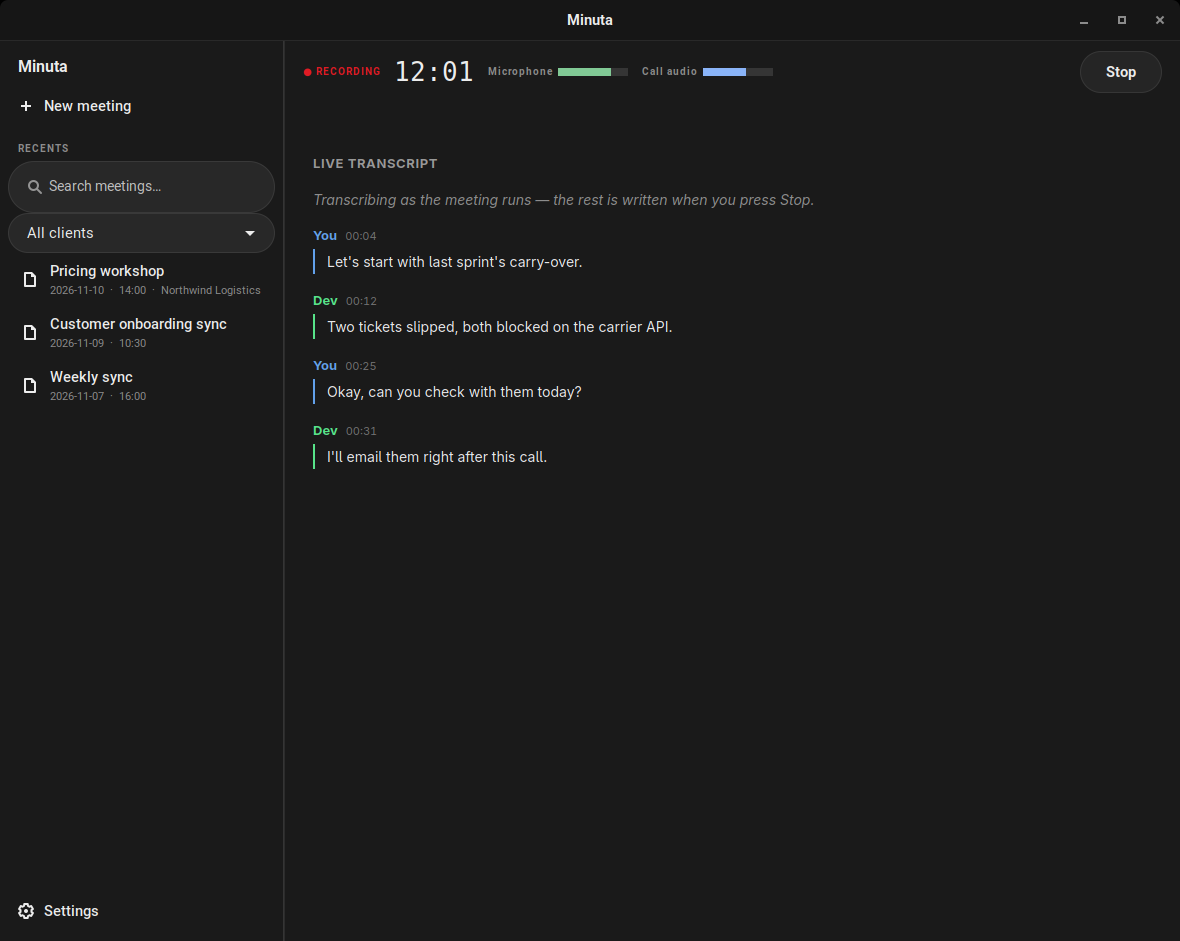
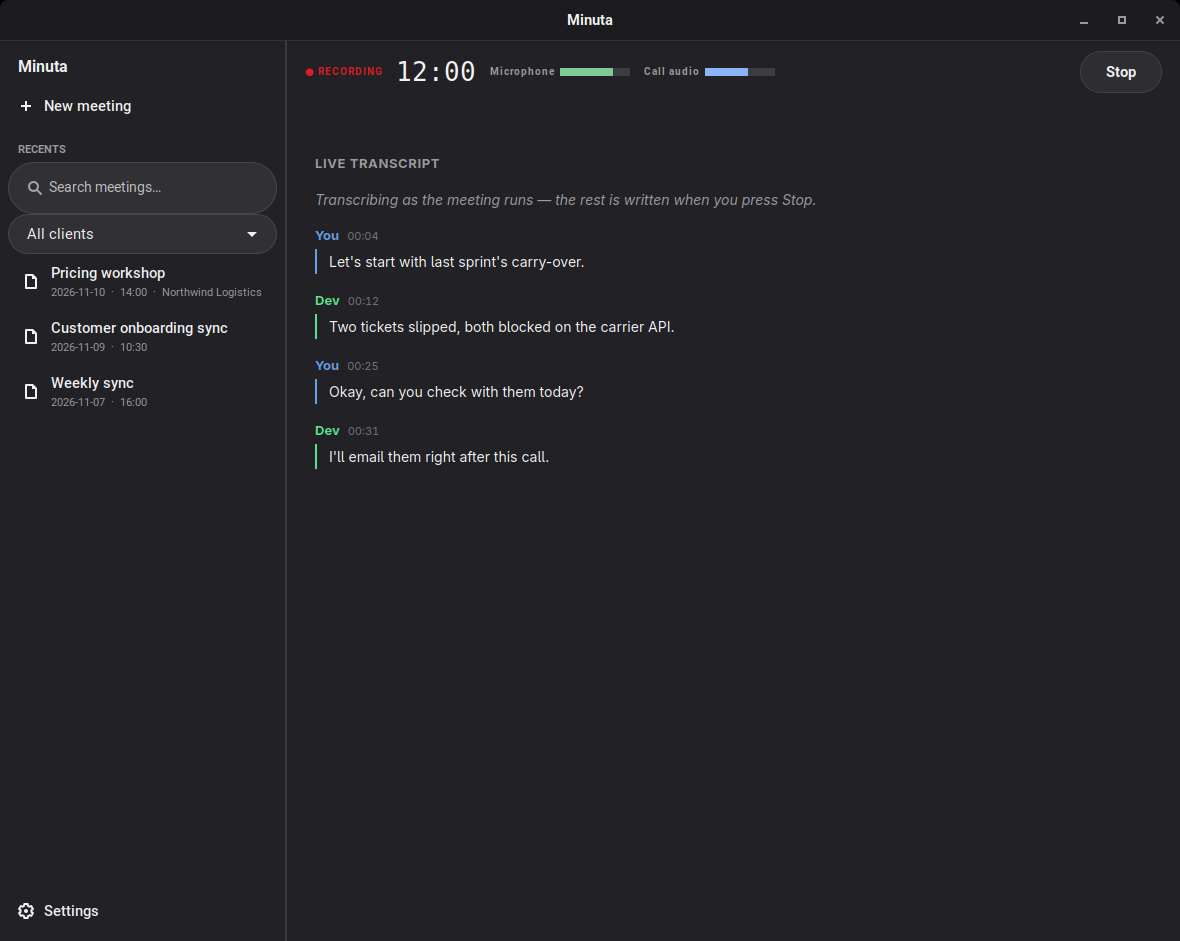
GUI: same visual tokens as Gavetta/Clima/Cadência, with a light theme that follows the system
Surface #222226, 12px cards and rows, accent-bordered selection, pill dialog buttons.
Dark or light comes from org.gnome.desktop.interface color-scheme (MINUTA_THEME overrides),
including the notes view. README screenshots regenerated.

diff --git a/gui/minuta_gui.py b/gui/minuta_gui.py
@@ -273,24 +273,70 @@ except (OSError, subprocess.SubprocessError):
     pass
 
 # ---------------------------------------------------------------- theme
-# Same visual language as Gavetta: neutral dark surface, GNOME blue accent,
-# rounded cards, pill-shaped inputs and chips, hairline borders.
-THEME = {
-    "bg":            "#1a1a1a",
-    "bg_bar":        "#161616",
-    "surface":       "rgba(255,255,255,0.05)",
-    "surface_hover": "rgba(255,255,255,0.09)",
-    "field":         "rgba(255,255,255,0.06)",
-    "hairline":      "rgba(255,255,255,0.08)",
+# Same visual language as Gavetta, Clima and Cadência: neutral surface, GNOME blue
+# accent, rounded cards (12px), pill inputs and chips, hairline borders. Dark or light
+# follows the system (org.gnome.desktop.interface color-scheme); MINUTA_THEME overrides.
+THEME_DARK = {
+    "bg":            "#222226",
+    "bg_bar":        "#1c1c20",
+    "surface":       "rgba(255,255,255,0.055)",
+    "surface_hover": "rgba(255,255,255,0.10)",
+    "field":         "rgba(255,255,255,0.07)",
+    "hairline":      "rgba(255,255,255,0.10)",
     "accent":        "#3584e4",
     "accent_soft":   "#62a0ea",
-    "text_primary":  "#ececec",
-    "text_secondary":"rgba(255,255,255,0.50)",
+    "text_primary":  "#f2f2f2",
+    "text_secondary":"rgba(255,255,255,0.55)",
     "danger":        "#e01b24",
     "warn":          "#f5c211",
+    "ok":            "#57e389",
+    "cloud":         "#ffa348",
+    "ink":           "255,255,255",
+    "strong":        "#ffffff",
+}
+THEME_LIGHT = {
+    "bg":            "#fafafb",
+    "bg_bar":        "#f0f0f3",
+    "surface":       "rgba(0,0,0,0.045)",
+    "surface_hover": "rgba(0,0,0,0.08)",
+    "field":         "rgba(0,0,0,0.05)",
+    "hairline":      "rgba(0,0,0,0.12)",
+    "accent":        "#3584e4",
+    "accent_soft":   "#1c71d8",
+    "text_primary":  "#241f31",
+    "text_secondary":"rgba(0,0,0,0.58)",
+    "danger":        "#c01c28",
+    "warn":          "#b8860b",
+    "ok":            "#1a7f4b",
+    "cloud":         "#b85c00",
+    "ink":           "0,0,0",
+    "strong":        "#000000",
 }
 
-CSS = ("""
+
+def system_is_dark() -> bool:
+    forced = os.environ.get("MINUTA_THEME", "").lower()
+    if forced in ("dark", "light"):
+        return forced == "dark"
+    try:
+        out = subprocess.run(["gsettings", "get", "org.gnome.desktop.interface", "color-scheme"],
+                             capture_output=True, text=True, timeout=3).stdout
+        return "light" not in out
+    except (OSError, subprocess.SubprocessError):
+        return True
+
+
+IS_DARK = system_is_dark()
+THEME = THEME_DARK if IS_DARK else THEME_LIGHT
+
+
+def themed(css: str) -> str:
+    """Fill the %(token)s placeholders; overlays written as white become black on light."""
+    css = css.replace("rgba(255,255,255,", "rgba(%(ink)s,").replace("rgba(255, 255, 255, ", "rgba(%(ink)s, ")
+    return re.sub(r"%\((\w+)\)s", lambda m: THEME[m.group(1)], css)
+
+
+_CSS_SRC = """
 window, .root { background-color: %(bg)s; color: %(text_primary)s; }
 headerbar { background: %(bg_bar)s; border-bottom: 1px solid %(hairline)s; box-shadow: none; color: %(text_primary)s; min-height: 38px; }
 headerbar button { border-radius: 999px; background: transparent; border: none; box-shadow: none; color: %(text_secondary)s; }
@@ -299,10 +345,10 @@ headerbar button:hover { background: %(surface_hover)s; color: %(text_primary)s;
 /* sidebar: flat, like Vibe */
 .sidebar { background: %(bg)s; padding: 14px 8px 4px 8px; }
 .sidebar-title { font-size: 16px; font-weight: 700; padding: 2px 10px 10px 10px; }
-.section-label { font-size: 10px; font-weight: 600; letter-spacing: 1.3px; color: %(text_secondary)s; padding: 16px 10px 6px 10px; }
+.section-label { font-size: 11px; font-weight: 700; letter-spacing: 0.6px; color: %(text_secondary)s; padding: 16px 10px 6px 10px; }
 button.nav {
   background: transparent; border: none; box-shadow: none; color: %(text_primary)s;
-  border-radius: 8px; padding: 8px 10px; font-weight: 500;
+  border-radius: 12px; padding: 8px 10px; font-weight: 500;
 }
 button.nav:hover { background: %(surface_hover)s; }
 separator { background: %(hairline)s; min-width: 1px; min-height: 1px; margin: 0; }
@@ -312,7 +358,7 @@ separator { background: %(hairline)s; min-width: 1px; min-height: 1px; margin: 0
 .status-rec  { color: %(danger)s; }
 .status-busy { color: %(accent_soft)s; }
 .dim-label { color: %(text_secondary)s; font-size: 12px; }
-.dim-icon { color: rgba(255,255,255,0.55); }
+.dim-icon { color: %(text_secondary)s; }
 .drop-title { font-size: 16px; font-weight: 600; color: %(text_primary)s; }
 
 entry, searchentry {
@@ -321,6 +367,8 @@ entry, searchentry {
   font-size: 14px; box-shadow: none;
 }
 entry:focus, searchentry:focus { border-color: %(accent_soft)s; background: rgba(255,255,255,0.09); }
+entry image, searchentry image { color: %(text_secondary)s; }
+entry placeholder, searchentry placeholder { color: %(text_secondary)s; }
 searchentry { margin: 0 6px 8px 6px; padding: 6px 12px; }
 
 combobox button.combo {
@@ -346,9 +394,10 @@ button.loud:disabled, button.quiet:disabled {
 
 /* recents: flat rows */
 list, list row { background: transparent; }
-list row { margin: 1px 4px; padding: 8px 10px; border-radius: 8px; border: none; }
-list row:hover { background: %(surface)s; }
-list row:selected { background: %(surface_hover)s; }
+list row { margin: 1px 4px; padding: 8px 10px; border-radius: 12px; border: 1px solid transparent; }
+list row, list row image { color: %(text_primary)s; }
+list row:hover { background: %(surface_hover)s; }
+list row:selected { background: alpha(%(accent)s, 0.22); border-color: alpha(%(accent_soft)s, 0.60); }
 .row-title { color: %(text_primary)s; font-weight: 500; }
 .row-meta  { color: %(text_secondary)s; font-size: 11px; }
 .empty { color: %(text_secondary)s; font-size: 12px; }
@@ -362,58 +411,69 @@ list row:selected { background: %(surface_hover)s; }
 .segment button:hover { color: %(text_primary)s; }
 .segment button.active { background: rgba(255,255,255,0.10); color: %(text_primary)s; }
 .dropzone {
-  border: 1.5px dashed rgba(255,255,255,0.16); border-radius: 18px; padding: 34px 28px;
+  border: 1.5px dashed %(hairline)s; border-radius: 18px; padding: 34px 28px;
 }
 eventbox:hover .dropzone { border-color: %(accent_soft)s; }
 
 .tag-local, .tag-cloud { font-size: 11px; font-weight: 700; padding: 3px 12px; border-radius: 999px; }
-.tag-local { color: #57e389; background: alpha(#57e389, 0.14); }
-.tag-cloud { color: #ffa348; background: alpha(#ffa348, 0.16); }
+.tag-local { color: %(ok)s; background: alpha(%(ok)s, 0.14); }
+.tag-cloud { color: %(cloud)s; background: alpha(%(cloud)s, 0.16); }
 
 /* action bar: chips */
 button.chip {
   padding: 3px 12px; border-radius: 999px; font-size: 12px; font-weight: 700;
-  background: %(surface)s; color: rgba(255,255,255,0.75);
+  background: %(surface)s; color: %(text_secondary)s;
   border: none; box-shadow: none;
 }
-button.chip:hover { background: rgba(255,255,255,0.15); color: #ffffff; }
+button.chip:hover { background: rgba(255,255,255,0.15); color: %(strong)s; }
 button.chip.danger:hover { background: alpha(%(danger)s, 0.60); color: #ffffff; }
-button.chip:disabled { color: rgba(255,255,255,0.28); }
+button.chip:disabled { color: alpha(%(text_secondary)s, 0.5); }
 
 dialog, messagedialog { background: %(bg)s; color: %(text_primary)s; }
-""" % THEME).encode()
+dialog .dialog-action-area button, messagedialog .dialog-action-area button {
+  background: %(surface)s; color: %(text_primary)s; border: 1px solid %(hairline)s;
+  border-radius: 999px; box-shadow: none; padding: 6px 20px; font-weight: 600;
+}
+dialog .dialog-action-area button:hover, messagedialog .dialog-action-area button:hover { background: %(surface_hover)s; }
+dialog .dialog-action-area button.suggested-action, messagedialog .dialog-action-area button.suggested-action {
+  background: %(accent)s; color: #ffffff; border: none;
+}
+dialog .dialog-action-area button.suggested-action:hover, messagedialog .dialog-action-area button.suggested-action:hover { background: %(accent_soft)s; }
+"""
+CSS = themed(_CSS_SRC).encode()
 
-NOTE_CSS = """
-:root { color-scheme: dark; }
-body { background:#1a1a1a; color:#e6e6e8; font-family: system-ui, -apple-system, "Segoe UI", sans-serif;
+_NOTE_SRC = """
+:root { color-scheme: %(scheme)s; }
+body { background:%(bg)s; color:%(text_primary)s; font-family: system-ui, -apple-system, "Segoe UI", sans-serif;
        font-size: 14px; line-height: 1.65; padding: 24px 28px; margin:0; }
-h1 { font-size: 21px; color:#fff; margin:0 0 4px; }
+h1 { font-size: 21px; color:%(strong)s; margin:0 0 4px; }
 h2 { font-size: 13px; letter-spacing: .6px; text-transform: uppercase; color: rgba(255,255,255,.55);
      margin: 26px 0 10px; font-weight: 700; }
-h3 { font-size: 13.5px; color:#e6e6e8; margin: 16px 0 4px; }
+h3 { font-size: 13.5px; color:%(text_primary)s; margin: 16px 0 4px; }
 table { border-collapse: separate; border-spacing: 0; width:100%; margin:10px 0; font-size:13px;
-        border:1px solid rgba(255,255,255,.08); border-radius:12px; overflow:hidden; }
+        border:1px solid %(hairline)s; border-radius:12px; overflow:hidden; }
 th { text-align:left; background:rgba(255,255,255,.07); color:rgba(255,255,255,.7); padding:8px 12px; }
 td { padding:8px 12px; border-top:1px solid rgba(255,255,255,.06); vertical-align: top; }
 code { background:rgba(255,255,255,.08); padding:1px 6px; border-radius:6px; font-size:12.5px; }
-blockquote { border-left:3px solid #62a0ea; margin:12px 0; padding:8px 14px; color:rgba(255,255,255,.65);
+blockquote { border-left:3px solid %(accent_soft)s; margin:12px 0; padding:8px 14px; color:rgba(255,255,255,.65);
              background:rgba(255,255,255,.04); border-radius:0 10px 10px 0; }
-strong { color:#fff; }
+strong { color:%(strong)s; }
 ul,ol { padding-left: 22px; }
 li { margin: 4px 0; }
-li::marker { color:#62a0ea; }
-a { color:#62a0ea; }
+li::marker { color:%(accent_soft)s; }
+a { color:%(accent_soft)s; }
 pre { background:rgba(255,255,255,.05); border-radius:12px; padding:12px 14px; }
 .turn { margin: 0 0 16px; }
 .who { font-weight: 700; font-size: 13px; }
 .ts { font-weight: 400; font-size: 11px; margin-left: 8px; color: rgba(255,255,255,.38);
       font-variant-numeric: tabular-nums; }
-.say { margin: 3px 0 0; padding: 1px 0 1px 12px; border-left: 2px solid var(--c); color: #e6e6e8; }
+.say { margin: 3px 0 0; padding: 1px 0 1px 12px; border-left: 2px solid var(--c); color: %(text_primary)s; }
 em { color: rgba(255,255,255,.6); }
 """
+NOTE_CSS = themed(_NOTE_SRC.replace("%(scheme)s", "dark" if IS_DARK else "light"))
 
-
-SPEAKER_COLORS = ["#62a0ea", "#57e389", "#f5c211", "#dc8add", "#ffa348", "#78aeed"]
+SPEAKER_COLORS = (["#62a0ea", "#57e389", "#f5c211", "#dc8add", "#ffa348", "#78aeed"] if IS_DARK else
+                  ["#1c71d8", "#1a7f4b", "#9a6a00", "#9141ac", "#b85c00", "#1a5fb4"])
 
 
 def transcript_html(text: str) -> str:
@@ -1040,7 +1100,7 @@ class MinutaWindow(Gtk.ApplicationWindow):
             body = ""
             note = f"<p class='hint'>{html.escape(T('Listening. The first lines appear after about a minute of speech.'))}</p>"
         self.webview.load_html(
-            f"<style>{NOTE_CSS}.hint{{color:rgba(255,255,255,.5);font-style:italic}}</style>"
+            f"<style>{NOTE_CSS}.hint{{color:{THEME['text_secondary']};font-style:italic}}</style>"
             f"<h2>{html.escape(T('Live transcript'))}</h2>{note}{body}"
             "<script>window.scrollTo(0, document.body.scrollHeight);</script>", None)
 
@@ -1915,6 +1975,7 @@ class MinutaApp(Gtk.Application):
         GLib.set_prgname("io.github.bcocheto.Minuta")
         Gtk.Window.set_default_icon_name("minuta")
         Notify.init("Minuta")
+        Gtk.Settings.get_default().set_property("gtk-application-prefer-dark-theme", IS_DARK)
         provider = Gtk.CssProvider()
         provider.load_from_data(CSS)
         Gtk.StyleContext.add_provider_for_screen(
